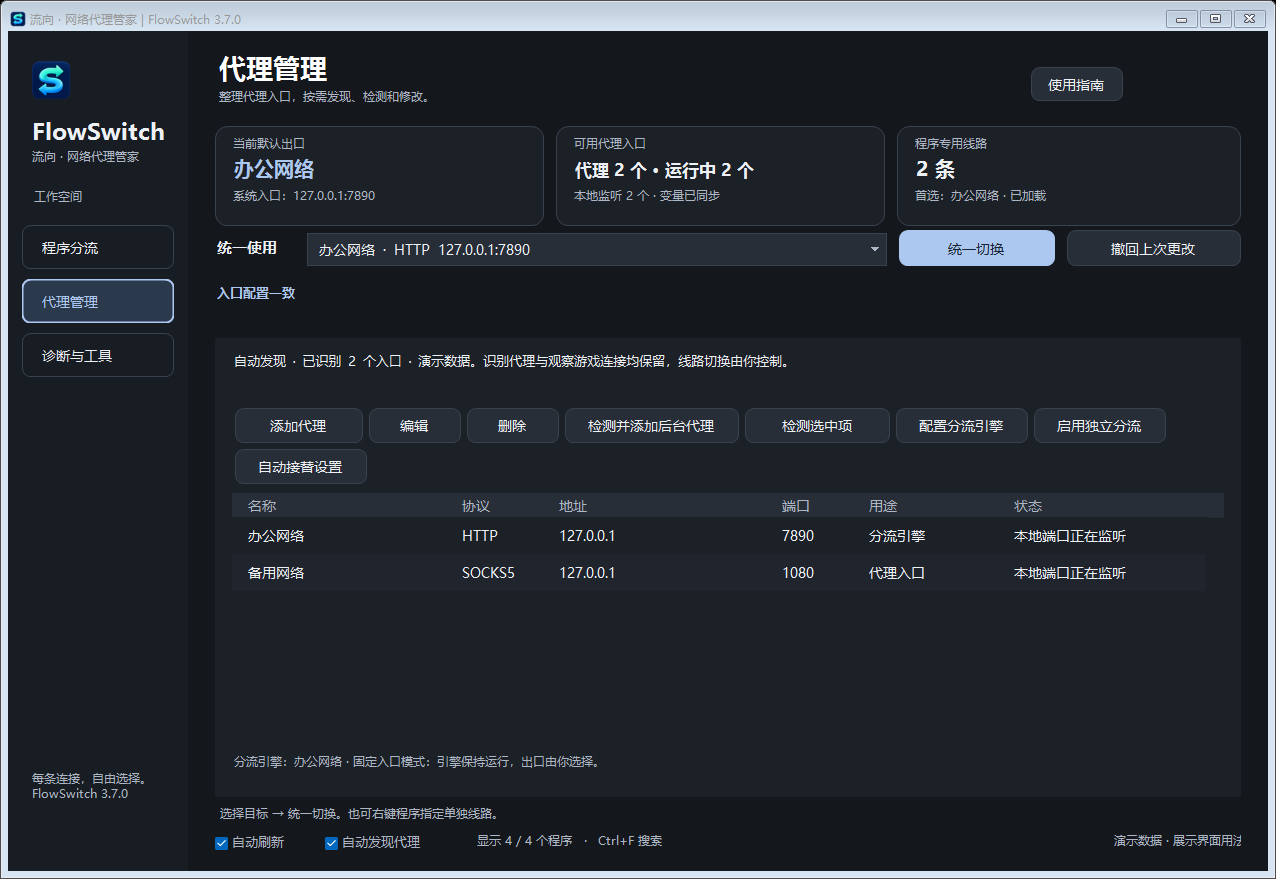
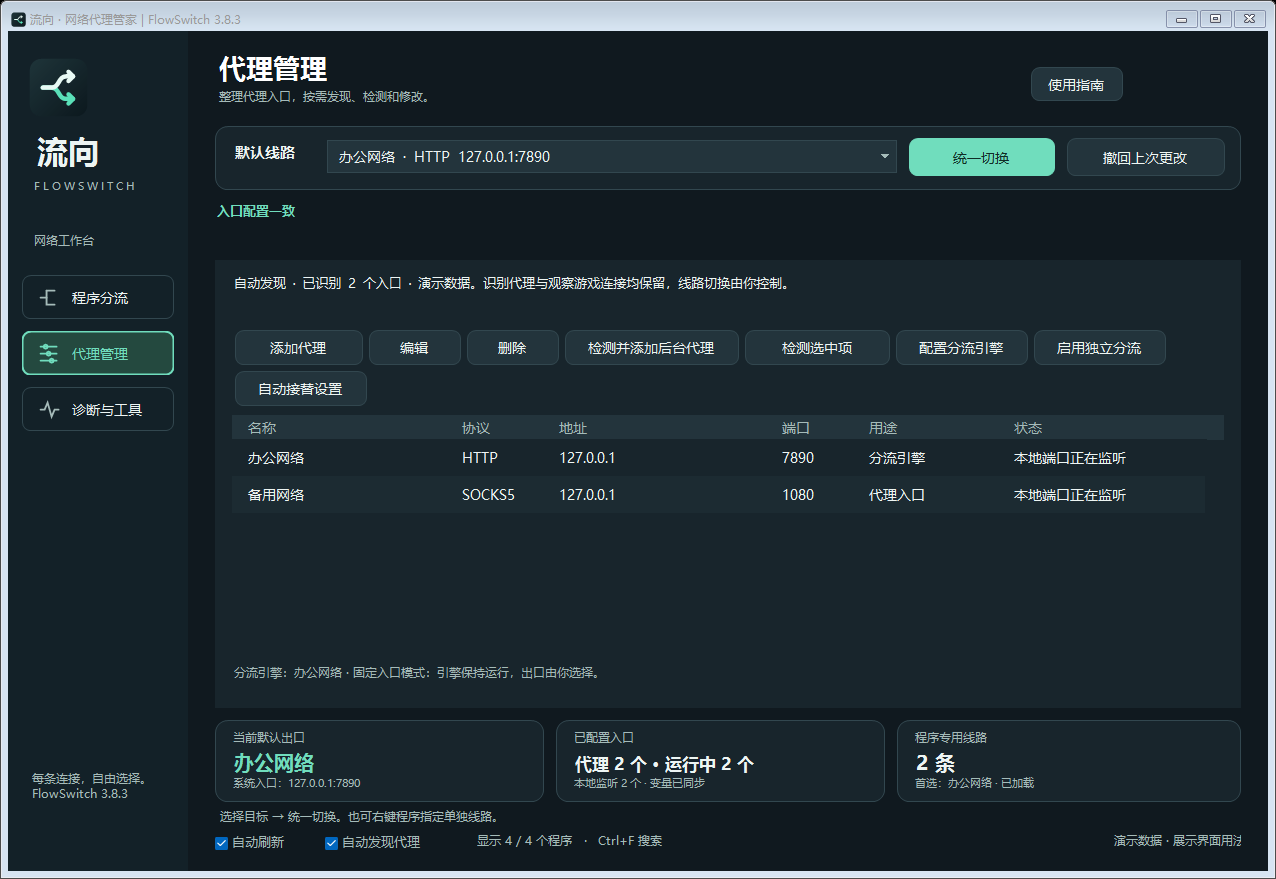
Attach navigation controls before activating constraints and document new workspaces

diff --git a/macos/Sources/FlowSwitch/Workspace.swift b/macos/Sources/FlowSwitch/Workspace.swift
@@ -67,8 +67,8 @@ extension AppDelegate {
         for (index,entry) in [("线路管理","point.3.connected.trianglepath.dotted"),("分流规则","arrow.triangle.branch"),("网络诊断","waveform.path.ecg")].enumerated() {
             let b = button(entry.0,#selector(navigate)); b.tag = index; b.image = NSImage(systemSymbolName:entry.1,accessibilityDescription:nil)
             b.imagePosition = .imageLeading; b.alignment = .left; b.heightAnchor.constraint(equalToConstant:42).isActive = true
-            b.widthAnchor.constraint(equalTo: navigation.widthAnchor).isActive = true
             navigation.addArrangedSubview(b); navigationButtons.append(b)
+            b.widthAnchor.constraint(equalTo: navigation.widthAnchor).isActive = true
         }
         navigation.translatesAutoresizingMaskIntoConstraints = false; sidebar.addSubview(navigation)
         NSLayoutConstraint.activate([navigation.leadingAnchor.constraint(equalTo:sidebar.leadingAnchor,constant:18),navigation.trailingAnchor.constraint(equalTo:sidebar.trailingAnchor,constant:-18),navigation.topAnchor.constraint(equalTo:sidebar.topAnchor,constant:24)])

diff --git a/README.md b/README.md
@@ -1,4 +1,4 @@
-![流向 FlowSwitch](https://raw.githubusercontent.com/turnsolesama/portfolio/35ecc7e17cb9053279ecc422c3a577f5dafa5104/proxy-switch/assets/FlowSwitch.png)
+<img src="assets/FlowSwitch.png" alt="流向 FlowSwitch" width="144" />
 
 # 流向 FlowSwitch 3.8.2
 
@@ -17,6 +17,12 @@ macOS 13+，自带代理内核，无需 Node、Python 或 Homebrew。支持 HTTP
 **[下载 Apple 芯片版](https://github.com/turnsolesama/proxy-switch/releases/download/macos-v0.1.0-preview.1/FlowSwitch-macOS-0.1.0-preview.1-arm64.zip)** · **[下载 Intel 版](https://github.com/turnsolesama/proxy-switch/releases/download/macos-v0.1.0-preview.1/FlowSwitch-macOS-0.1.0-preview.1-x86_64.zip)** · [Mac 源码包](https://github.com/turnsolesama/proxy-switch/releases/download/macos-v0.1.0-preview.1/FlowSwitch-macOS-0.1.0-preview.1-Source.zip) · [SHA-256](https://github.com/turnsolesama/proxy-switch/releases/download/macos-v0.1.0-preview.1/SHA256SUMS.txt)
 
 解压后将 `FlowSwitch.app` 拖到“应用程序”。详细安装步骤、功能边界见 [Mac 使用说明](macos/README.md)，实际执行证据见 [Mac 验收记录](macos/TEST_REPORT.md)。两个架构均已完成原生构建、隔离请求测试及公开下载包回检；这不代表 Windows 的全部程序适配功能已经移植。
+
+## 桌面工作台
+
+Windows 与 Mac 使用统一的分叉路径图标和深墨绿配色，保持各自的原生界面。线路切换始终放在顶部，分流与诊断分别操作；本轮仅调整布局与呈现，原有代理逻辑保持一致。
+
+![Windows 程序分流工作台（演示数据）](assets/screenshot.png)
 
 ## 快速开始
 

diff --git a/DESIGN.md b/DESIGN.md
@@ -1,4 +1,17 @@
-# FlowSwitch 3.8.0 候选交互与状态设计
+# 桌面界面更新 · Windows 3.8.3 / macOS preview.2
+
+2026-09-19。两端采用深墨绿背景、薄荷绿操作色和同一分叉路径图标，继续使用 WinForms / AppKit；不增加 WebView、大型 UI 运行时或联网字体。
+
+- 左栏保持稳定导航，当前页面标题同步更新；主操作与辅助操作使用不同强调程度。
+- Windows 顶部先选默认线路、再明确切换。程序表位于中心，三个状态摘要移至底部，保留右键分流、网站例外、搜索、诊断和撤回。
+- Mac 拆为线路管理、分流规则、网络诊断三页，连接控制始终可见。输入内容在切页时保留；停止服务前禁用配置编辑。
+- 路由规则、健康检测、退出恢复和系统代理归属逻辑不因界面改版而改变。已配置入口数量不声称线路健康；未观察到连接不等于断网。
+- 图标使用仓库内原创矢量路径，SVG、1024px PNG、含 16–256px 的 ICO 与 macOS ICNS 对应。`Build-BrandAssets.ps1` 可重新生成 Windows / PNG 资源；Mac 构建从 PNG 生成 ICNS。
+- Windows 的窗口大小和 100% / 125% / 150% 布局模拟、Mac 的原生控件行为分别检查；模拟缩放不等同于真实显示器 DPI 验收。
+
+---
+
+# FlowSwitch 3.8.0 候选交互与状态设计
 
 更新于 2026-09-12。本节补充核心重构后的交互约定。界面继续使用轻量 WinForms 工作台及现有运行组件；不增加新的大型界面框架。它描述当前设计和可见范围，不表示真实 IDE 登录或跨电脑验收已经完成。
 

diff --git a/CHANGELOG.md b/CHANGELOG.md
@@ -1,3 +1,11 @@
+## 3.8.3 — 桌面界面与品牌图标
+
+- 统一深墨绿与薄荷绿配色，换用原创分叉路径图标，包含小尺寸任务栏图标。
+- 线路切换独立成卡片，程序列表前移，状态摘要移到下方；侧栏加入功能图标。
+- 修正状态卡片宽度跟随窗口、摘要区域裁切和大字号品牌标题高度；保留既有分流与诊断操作。
+- Mac 0.1.0-preview.2 同步视觉风格，拆分线路、规则和诊断页面，新增隔离原生 UI 交互检查。
+- 不新增运行依赖，不修改代理切换、接替、修复和退出恢复策略。
+
 ## 3.8.2 — 失效代理入口恢复
 
 - 修复代理退出或卸载后系统仍指向失效本地地址的问题：明确操作后检测备用，验证流向入口和实际请求，再接入可用上游。

diff --git a/macos/README.md b/macos/README.md
@@ -1,6 +1,10 @@
-# 流向 FlowSwitch · macOS 测试版 0.1.0-preview.1
+# 流向 FlowSwitch · macOS 测试版 0.1.0-preview.2
 
 原生 AppKit 桌面程序，macOS 13 及以上，分别构建 Apple 芯片 arm64 和 Intel x86_64。程序包自带锁定的 mihomo 1.19.29，不需要安装 Node、Python、Homebrew 或 Clash。仍需要用户自己的无认证 HTTP / SOCKS5 上游，不提供节点、订阅或 VPN 服务。
+
+## 界面布局
+
+左侧分为「线路管理」「分流规则」「网络诊断」。顶部连接控制保持可见，选择默认线路后需明确点击切换；接入与停止恢复单独操作。线路列表、添加入口和接管偏好分别成组；切页不会丢弃正在输入的内容。沿用原生 AppKit，不新增运行组件。
 
 ## 安装与使用
 
